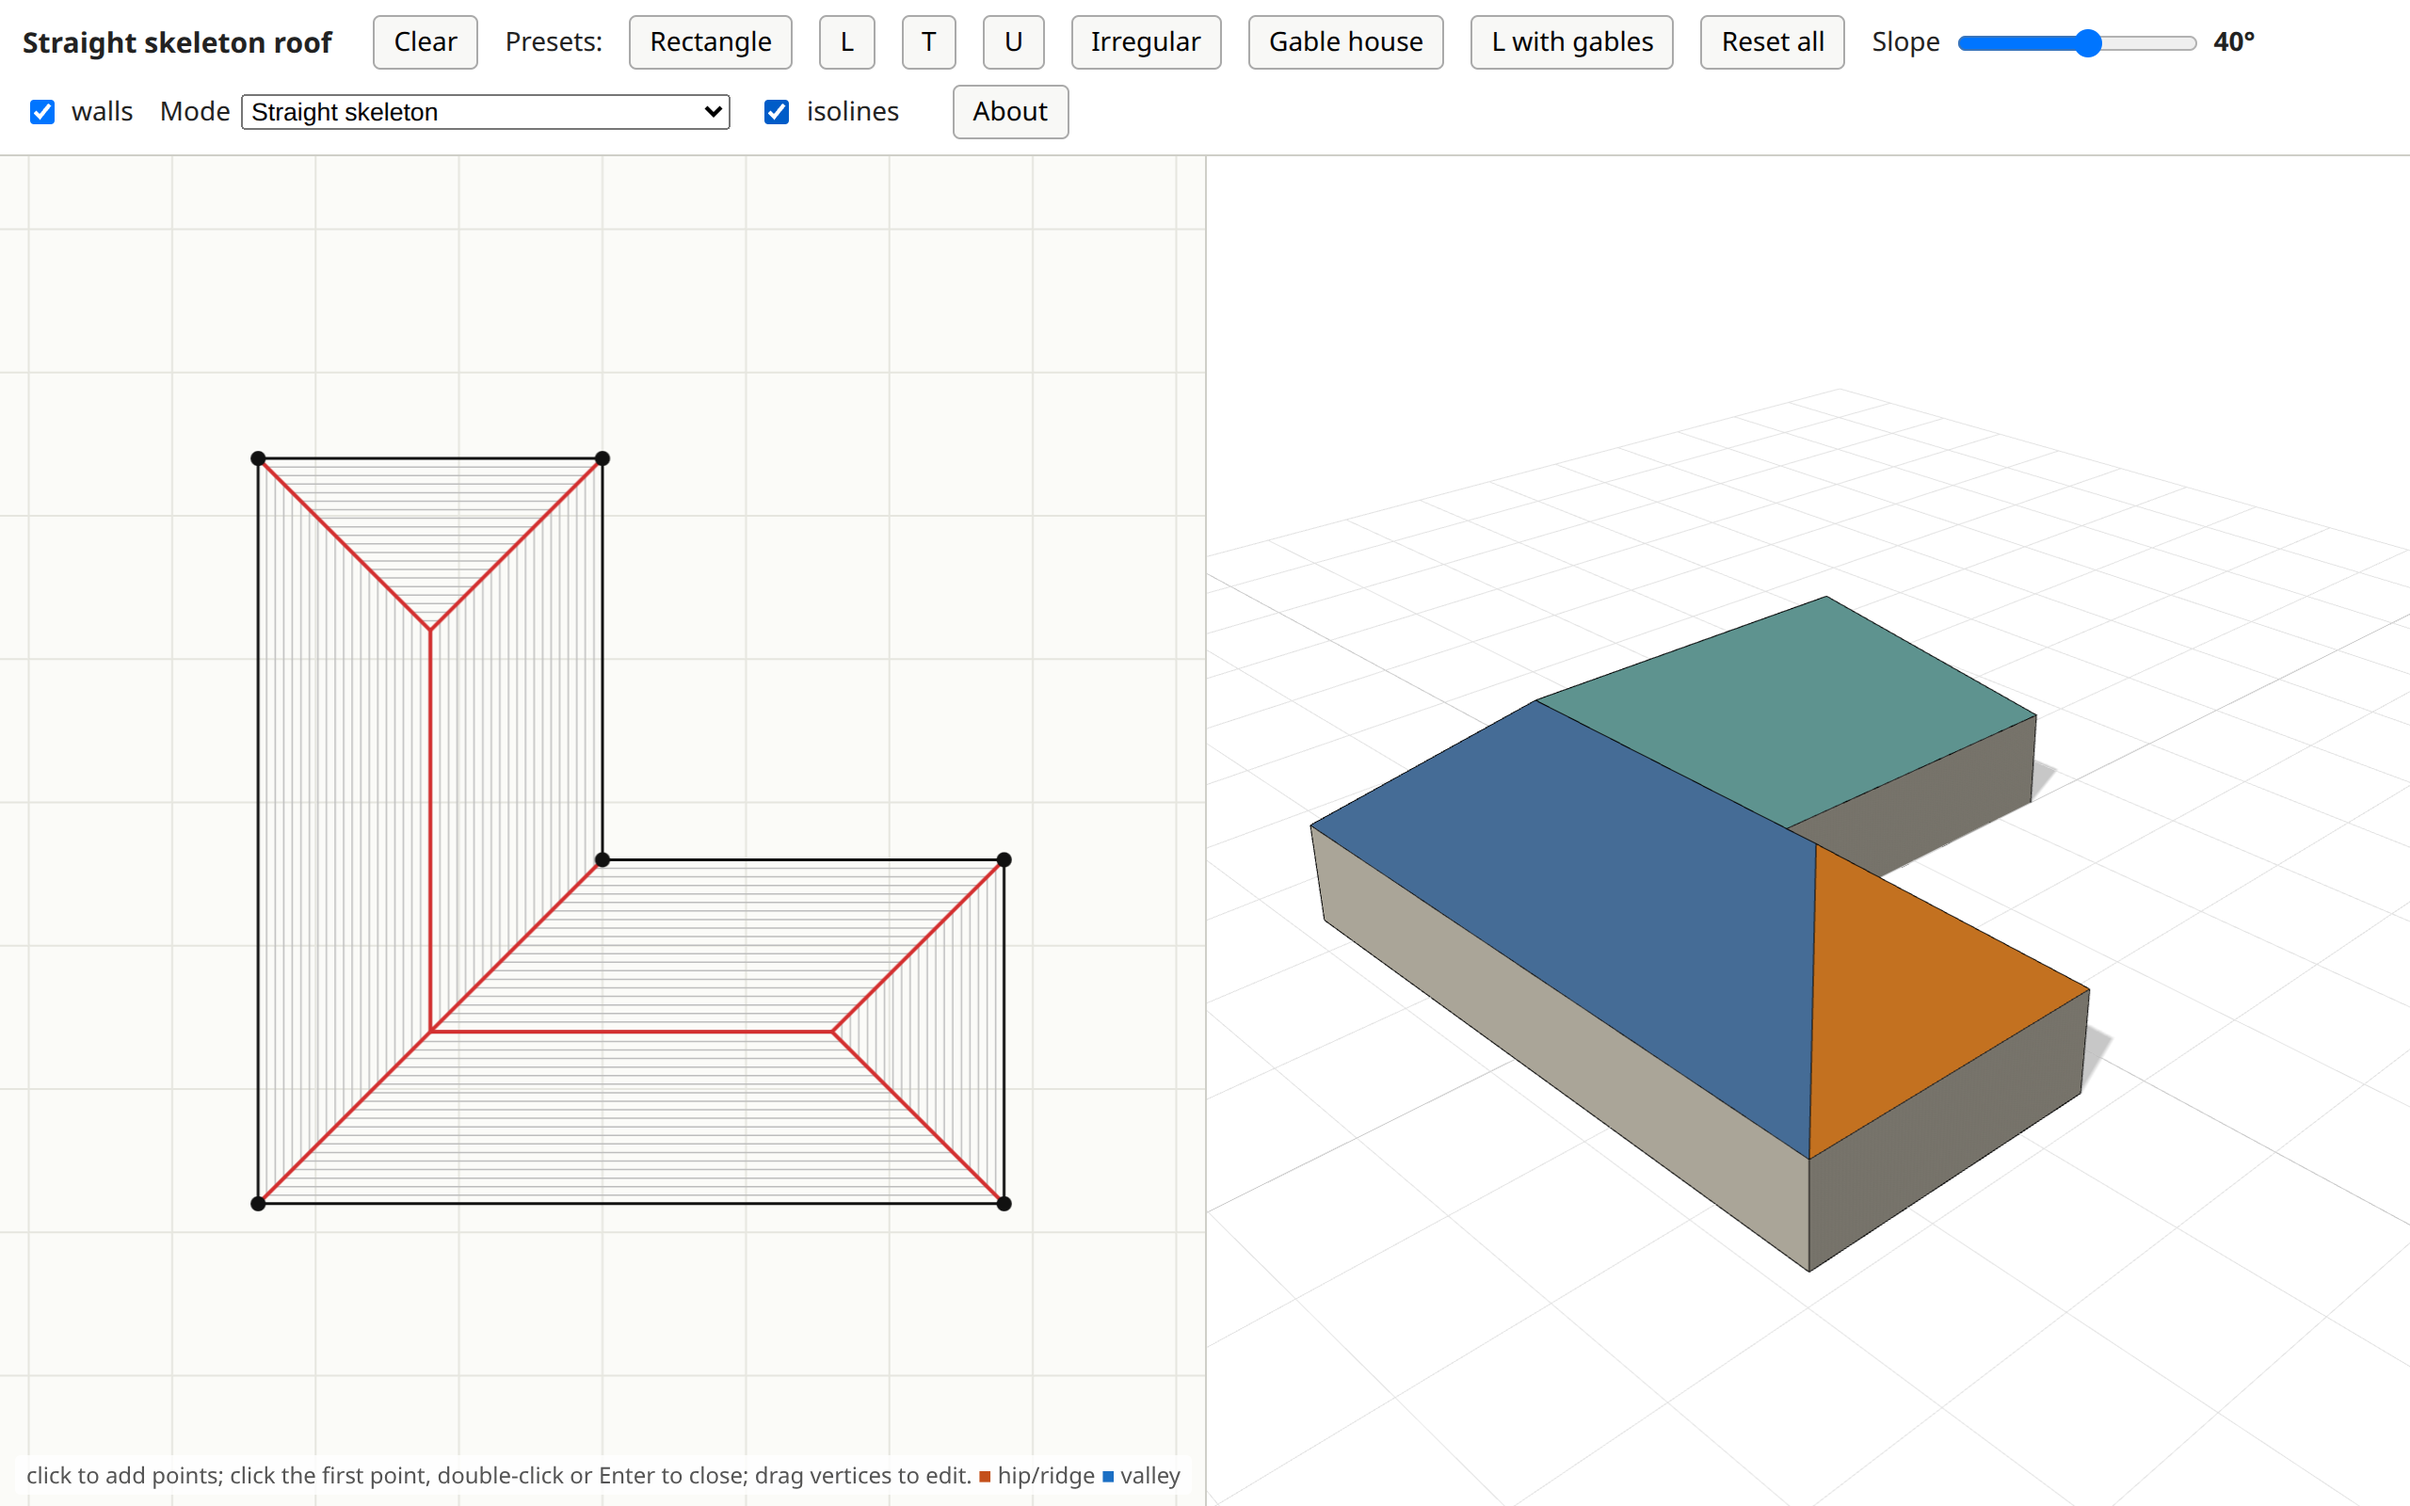
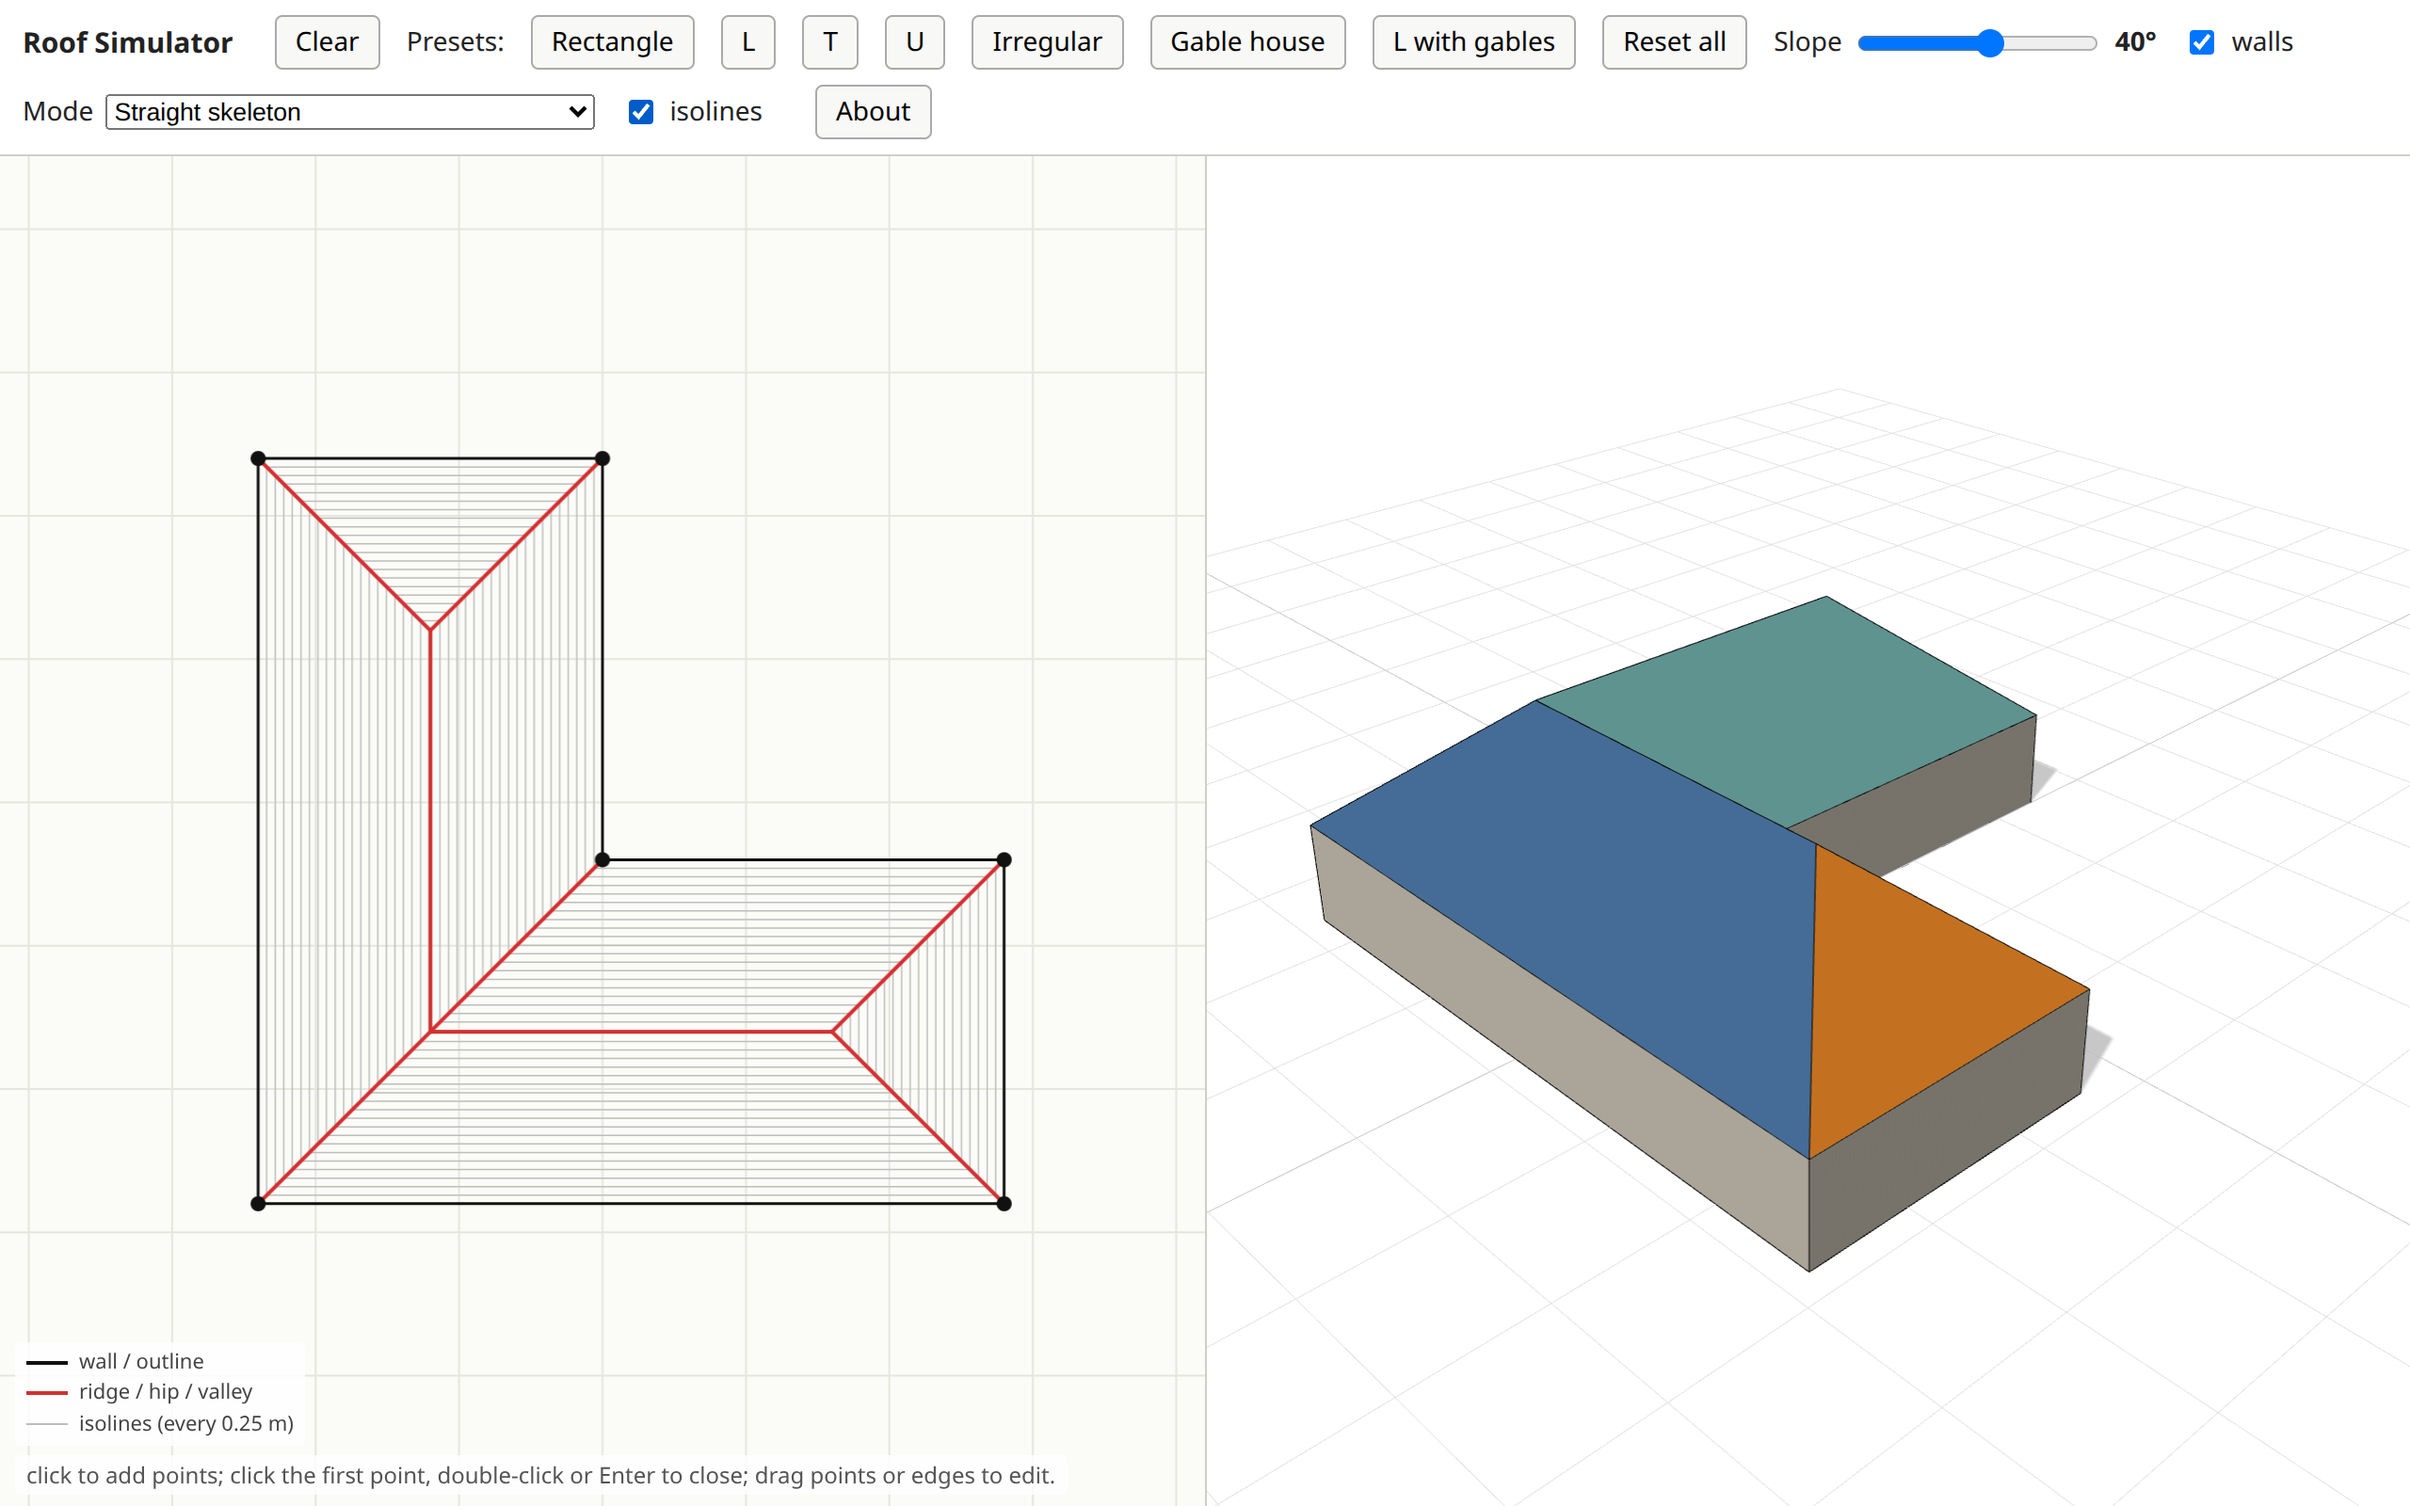
Edge box rework, legend, title, consistent drag cursor
- Edge box: Hip/Gable radios, slope slider with "global" toggle,
  fixed width; slider and toggle disabled for gables
- Gable edges drawn as thick black lines; small 2D legend replaces
  gable labels
- App renamed "Roof Simulator"
- Same grab/grabbing cursor for points and edges
- Screenshots: edge box in hip and gable states

Changed region(s): [[0.0, 0.0, 0.9375, 0.0938], [0.3438, 0.9688, 0.5, 1.0], [0.0312, 0.9062, 0.0938, 0.9688]]

diff --git a/src/render/view2d.ts b/src/render/view2d.ts
@@ -23,6 +23,22 @@ export function resize2d(): void {
 export const toScr = (p: Vec2): Vec2 => [VIEW.ox + p[0] * VIEW.s, VIEW.oy - p[1] * VIEW.s];
 export const toWorld = (x: number, y: number): Vec2 => [(x - VIEW.ox) / VIEW.s, (VIEW.oy - y) / VIEW.s];
 
+let legendKey = '';
+function updateLegend(iso: boolean, mode: string): void {
+  const { sk, closed, ov } = state;
+  const items: [string, number, string, string][] = [['#111', 2, 'solid', 'wall / outline']];
+  if (closed && ov.some((o) => o && o.gable)) items.push(['#000', 5, 'solid', 'gable (speed 0)']);
+  if (sk && closed && mode !== 'nearest') {
+    if (iso) items.push(['#d32f2f', 2, 'solid', 'ridge / hip / valley']);
+    else items.push(['#c4501b', 2, 'solid', 'hip / ridge'], ['#1b6fc4', 2, 'solid', 'valley']);
+  }
+  if (sk && closed && iso) items.push(['#bdbdbd', 1, 'solid', 'isolines (every ' + ISO_STEP + ' m)']);
+  const key = JSON.stringify(items);
+  if (key === legendKey) return;
+  legendKey = key;
+  $('legend').innerHTML = items.map(([c, w, st, t]) => `<div class="li"><i style="border-top-width:${w}px;border-color:${c};border-top-style:${st}"></i>${t}</div>`).join('');
+}
+
 export function draw2d(): void {
   const { pts, closed, sk, mouse } = state;
   ctx.clearRect(0, 0, VIEW.w, VIEW.h);
@@ -35,6 +51,7 @@ export function draw2d(): void {
   ctx.stroke();
   const mode = $<HTMLSelectElement>('mode').value;
   const iso = $<HTMLInputElement>('iso').checked;
+  updateLegend(iso, mode);
   if (sk && closed && iso) drawIsolines(sk);   // contour lines replace the face colours
   if (sk && closed && mode !== 'skel' && !iso) drawNearest2d();
   if (sk && closed) {
@@ -81,14 +98,14 @@ function decorateEdges(): void {
     const a = toScr(pts[i]), b = toScr(pts[(i + 1) % n]), o = ov[i];
     const gable = o && o.gable;
     if (i === sel) { ctx.strokeStyle = 'rgba(230,40,40,.55)'; ctx.lineWidth = 9; ctx.setLineDash([]); ctx.beginPath(); ctx.moveTo(a[0], a[1]); ctx.lineTo(b[0], b[1]); ctx.stroke(); }
-    if (gable) { ctx.strokeStyle = '#6b2d00'; ctx.lineWidth = 6; ctx.lineCap = 'round'; ctx.beginPath(); ctx.moveTo(a[0], a[1]); ctx.lineTo(b[0], b[1]); ctx.stroke(); ctx.lineCap = 'butt'; }
-    if (gable || (o && o.alpha !== g)) {
+    if (gable) { ctx.strokeStyle = '#000'; ctx.lineWidth = 6; ctx.lineCap = 'round'; ctx.beginPath(); ctx.moveTo(a[0], a[1]); ctx.lineTo(b[0], b[1]); ctx.stroke(); ctx.lineCap = 'butt'; }
+    if (!gable && o && o.alpha !== g) {
       const len = Math.hypot(b[0] - a[0], b[1] - a[1]) || 1;
       const nx = (b[1] - a[1]) / len, ny = -(b[0] - a[0]) / len;   // inward side on screen (CCW world, y flipped)
       const tx = (a[0] + b[0]) / 2 + nx * 13, ty = (a[1] + b[1]) / 2 + ny * 13;
-      const txt = gable ? 'gable' : o!.alpha + '°';
+      const txt = o!.alpha + '°';
       ctx.fillStyle = 'rgba(255,255,255,.85)'; ctx.fillRect(tx - 18, ty - 8, 36, 16);
-      ctx.fillStyle = gable ? '#6b2d00' : '#111'; ctx.fillText(txt, tx, ty);
+      ctx.fillStyle = '#111'; ctx.fillText(txt, tx, ty);
     }
   }
   ctx.setLineDash([]);

diff --git a/src/ui/edgeBox.ts b/src/ui/edgeBox.ts
@@ -1,4 +1,4 @@
-// Selected-edge box: hip/gable radios, per-edge slope slider, "use global".
+// Selected-edge box: hip/gable radios, per-edge slope slider, "global" toggle.
 import { $, globalAlpha } from '../dom';
 import { state } from '../state';
 
@@ -6,12 +6,15 @@ export function syncBox(): void {
   const { ov, sel, pts, closed } = state;
   const box = $('edgeBox'); box.hidden = !(closed && sel >= 0 && sel < pts.length);
   if (box.hidden) return;
-  const o = ov[sel], gable = !!(o && o.gable), alpha = o && !o.gable ? o.alpha! : globalAlpha();
+  const o = ov[sel], gable = !!(o && o.gable), own = !gable && !!o && o.alpha !== undefined;
+  const alpha = own ? o!.alpha! : globalAlpha();
   $('eN').textContent = String(sel);
   document.querySelector<HTMLInputElement>('input[name=em][value=hip]')!.checked = !gable;
   document.querySelector<HTMLInputElement>('input[name=em][value=gable]')!.checked = gable;
-  const eSlope = $<HTMLInputElement>('eSlope');
-  eSlope.value = String(alpha); eSlope.disabled = gable; $('eSlopeV').innerHTML = gable ? '90&deg;' : alpha + '&deg;';
+  const eSlope = $<HTMLInputElement>('eSlope'), eGlobal = $<HTMLInputElement>('eGlobal');
+  eGlobal.checked = !gable && !own; eGlobal.disabled = gable;
+  eSlope.value = String(alpha); eSlope.disabled = gable || !own;   // slider only active for a hip edge with its own slope
+  $('eSlopeV').innerHTML = gable ? '&ndash;' : alpha + '&deg;';
 }
 
 /** onChange: re-run the skeleton after an edge override changed */
@@ -19,11 +22,17 @@ export function initEdgeBox(onChange: () => void, toggleGable: (i: number) => vo
   document.querySelectorAll<HTMLInputElement>('input[name=em]').forEach((r) => r.addEventListener('change', () => {
     const { ov, sel } = state;
     if (sel < 0) return;
-    ov[sel] = r.value === 'gable' ? { gable: true } : { alpha: ov[sel] && ov[sel]!.alpha || globalAlpha() };
+    ov[sel] = r.value === 'gable' ? { gable: true } : undefined;   // back to hip: follows the global slope
     syncBox(); onChange();
   }));
   const eSlope = $<HTMLInputElement>('eSlope');
   eSlope.addEventListener('input', () => { if (state.sel < 0) return; state.ov[state.sel] = { alpha: +eSlope.value }; syncBox(); onChange(); });
-  $('eUse').onclick = () => { if (state.sel >= 0) { state.ov[state.sel] = undefined; syncBox(); onChange(); } };
+  // global ON: edge follows the toolbar slope; OFF: own override, starting from the current global value
+  $<HTMLInputElement>('eGlobal').addEventListener('change', (e) => {
+    const { ov, sel } = state;
+    if (sel < 0 || (ov[sel] && ov[sel]!.gable)) return;
+    ov[sel] = (e.target as HTMLInputElement).checked ? undefined : { alpha: globalAlpha() };
+    syncBox(); onChange();
+  });
   addEventListener('keydown', (e) => { if ((e.key === 'g' || e.key === 'G') && state.closed && state.sel >= 0) toggleGable(state.sel); });
 }

diff --git a/index.html b/index.html
@@ -3,11 +3,11 @@
 <head>
 <meta charset="utf-8">
 <meta name="viewport" content="width=device-width, initial-scale=1">
-<title>Straight skeleton roof demo</title>
+<title>Roof Simulator</title>
 </head>
 <body>
 <header>
-  <h1>Straight skeleton roof</h1>
+  <h1>Roof Simulator</h1>
   <button id="clear">Clear</button>
   <span>Presets:</span>
   <button data-preset="rectangle">Rectangle</button>
@@ -32,14 +32,16 @@
 </header>
 <div id="panes">
   <div class="pane"><canvas id="c2d"></canvas>
-    <div id="edgeBox" hidden>Edge <b id="eN"></b>:
-      <label><input type="radio" name="em" value="hip"> Hip (slope)</label>
-      <label><input type="radio" name="em" value="gable"> Gable</label><br>
-      <input id="eSlope" type="range" min="15" max="75" value="40"> <b id="eSlopeV"></b>
-      <button id="eUse">use global</button>
+    <div id="edgeBox" hidden>
+      <div class="ehead">Edge <b id="eN"></b></div>
+      <div class="erow"><label class="rad"><input type="radio" name="em" value="hip"> Hip</label>
+        <span class="sl">slope=<b id="eSlopeV"></b></span>
+        <input id="eSlope" type="range" min="15" max="75" value="40">
+        <label class="glob" title="on: this edge follows the global slope (toolbar); off: it has its own slope"><input id="eGlobal" type="checkbox"> global</label></div>
+      <div class="erow"><label class="rad"><input type="radio" name="em" value="gable"> Gable (speed=0)</label></div>
       <div class="small">click an edge to select it; shift-click or key G toggles gable</div></div>
-    <div class="hint">click to add points; click the first point, double-click or Enter to close; drag vertices to edit.
-      <span style="color:#c4501b">&#9632;</span> hip/ridge <span style="color:#1b6fc4">&#9632;</span> valley</div></div>
+    <div id="legend"></div>
+    <div class="hint">click to add points; click the first point, double-click or Enter to close; drag points or edges to edit.</div></div>
   <div class="pane"><canvas id="c3d"></canvas></div>
 </div>
 <div id="modal" hidden><div class="box" role="dialog" aria-label="About">

diff --git a/src/style.css b/src/style.css
@@ -20,6 +20,11 @@ canvas { display:block; width:100%; height:100%; }
 #msg { color:#fff; background:#d32f2f; font-weight:600; padding:3px 10px; border-radius:4px; }
 #msg[hidden] { display:none; }
 #edgeBox { position:absolute; right:8px; top:8px; background:rgba(255,255,255,.92); border:1px solid var(--line); border-radius:6px; padding:6px 10px; line-height:1.6; }
+#edgeBox .ehead { font-weight:600; } #edgeBox .erow { display:flex; align-items:center; gap:8px; } #edgeBox { width:340px; max-width:calc(100% - 16px); } #edgeBox .rad { min-width:4.2em; } #edgeBox .sl { white-space:nowrap; } #edgeBox .sl b { display:inline-block; width:3ch; text-align:right; font-variant-numeric:tabular-nums; } #edgeBox .glob { white-space:nowrap; }
+#edgeBox .erow:has(input:disabled) .sl, #edgeBox .glob:has(input:disabled) { opacity:.4; }
+#edgeBox input[type=range] { width:90px; flex:none; } #edgeBox input:disabled { opacity:.4; }
+#legend { position:absolute; left:8px; bottom:32px; font-size:11px; color:#444; background:rgba(255,255,255,.8); padding:3px 6px; border-radius:3px; pointer-events:none; line-height:1.5; }
+#legend:empty { display:none; } #legend .li { display:flex; align-items:center; gap:6px; } #legend i { display:inline-block; width:22px; border-top-style:solid; }
 #edgeBox[hidden] { display:none; } #edgeBox .small { font-size:11px; color:#666; }
 #modal { position:fixed; inset:0; background:rgba(0,0,0,.45); display:flex; align-items:center; justify-content:center; z-index:10; padding:16px; }
 #modal[hidden] { display:none; }

diff --git a/src/ui/editor.ts b/src/ui/editor.ts
@@ -60,7 +60,7 @@ function closePoly(): void {
 function updateCursor(): void {
   const dragging = state.drag >= 0 || state.dragEdge;
   const h = state.hover;
-  c2.style.cursor = dragging ? 'grabbing' : h ? (h.kind === 'vertex' ? 'grab' : 'move') : '';
+  c2.style.cursor = dragging ? 'grabbing' : h ? 'grab' : '';
 }
 
 export function initEditor(): void {

diff --git a/README.md b/README.md
@@ -1,4 +1,4 @@
-# Roof skeleton demo
+# Roof Simulator
 Straight skeleton of a drawn polygon (2D plan + three.js roof). Vite + TypeScript + Vitest + Open Props.
 
 ![Main view: U-shaped plan and its 3D roof](docs/screenshots/main.png)
@@ -9,6 +9,9 @@ Straight skeleton of a drawn polygon (2D plan + three.js roof). Vite + TypeScrip
 
 ![Gable house](docs/screenshots/gable-house.png)
 *Gable edges (per-edge profiles).*
+
+![Edge editing box](docs/screenshots/edge-box.png)
+*Selected edge: hip (slope follows the global slope or has its own) or gable.*
 
 ![Nearest-segment mode](docs/screenshots/nearest-segment.png)
 *Nearest-segment (Voronoi / medial axis) mode.*
